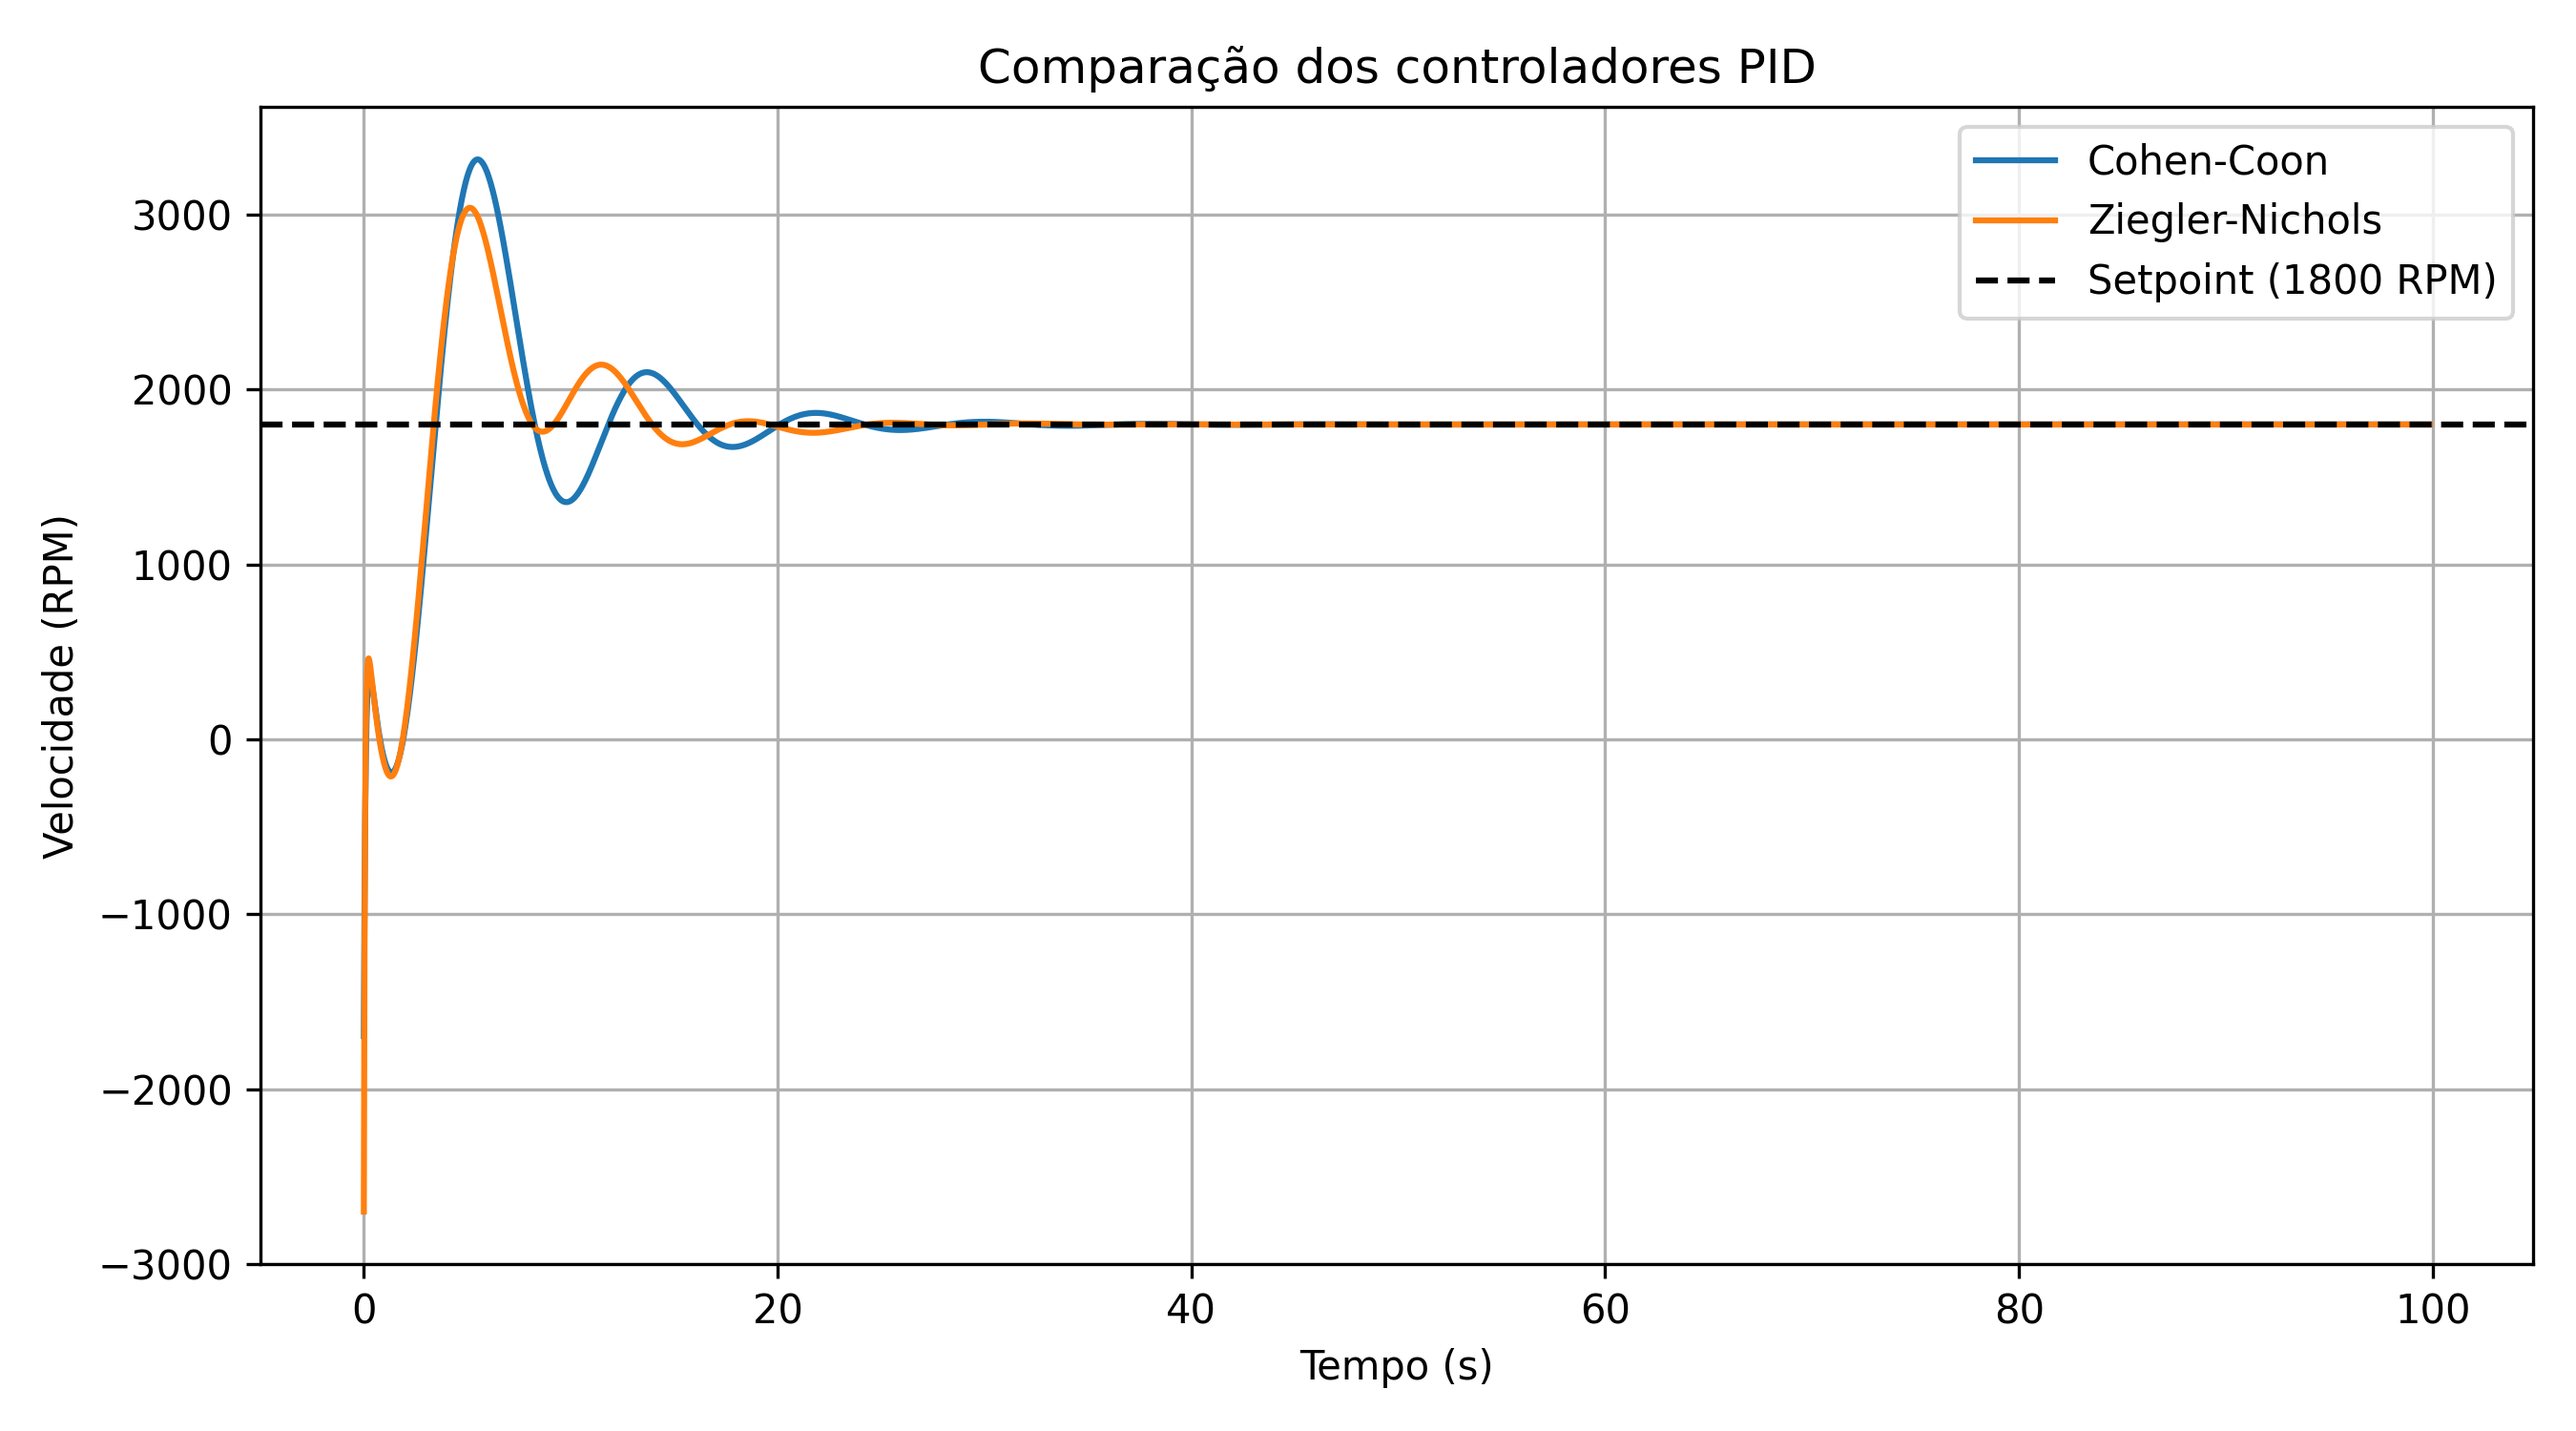
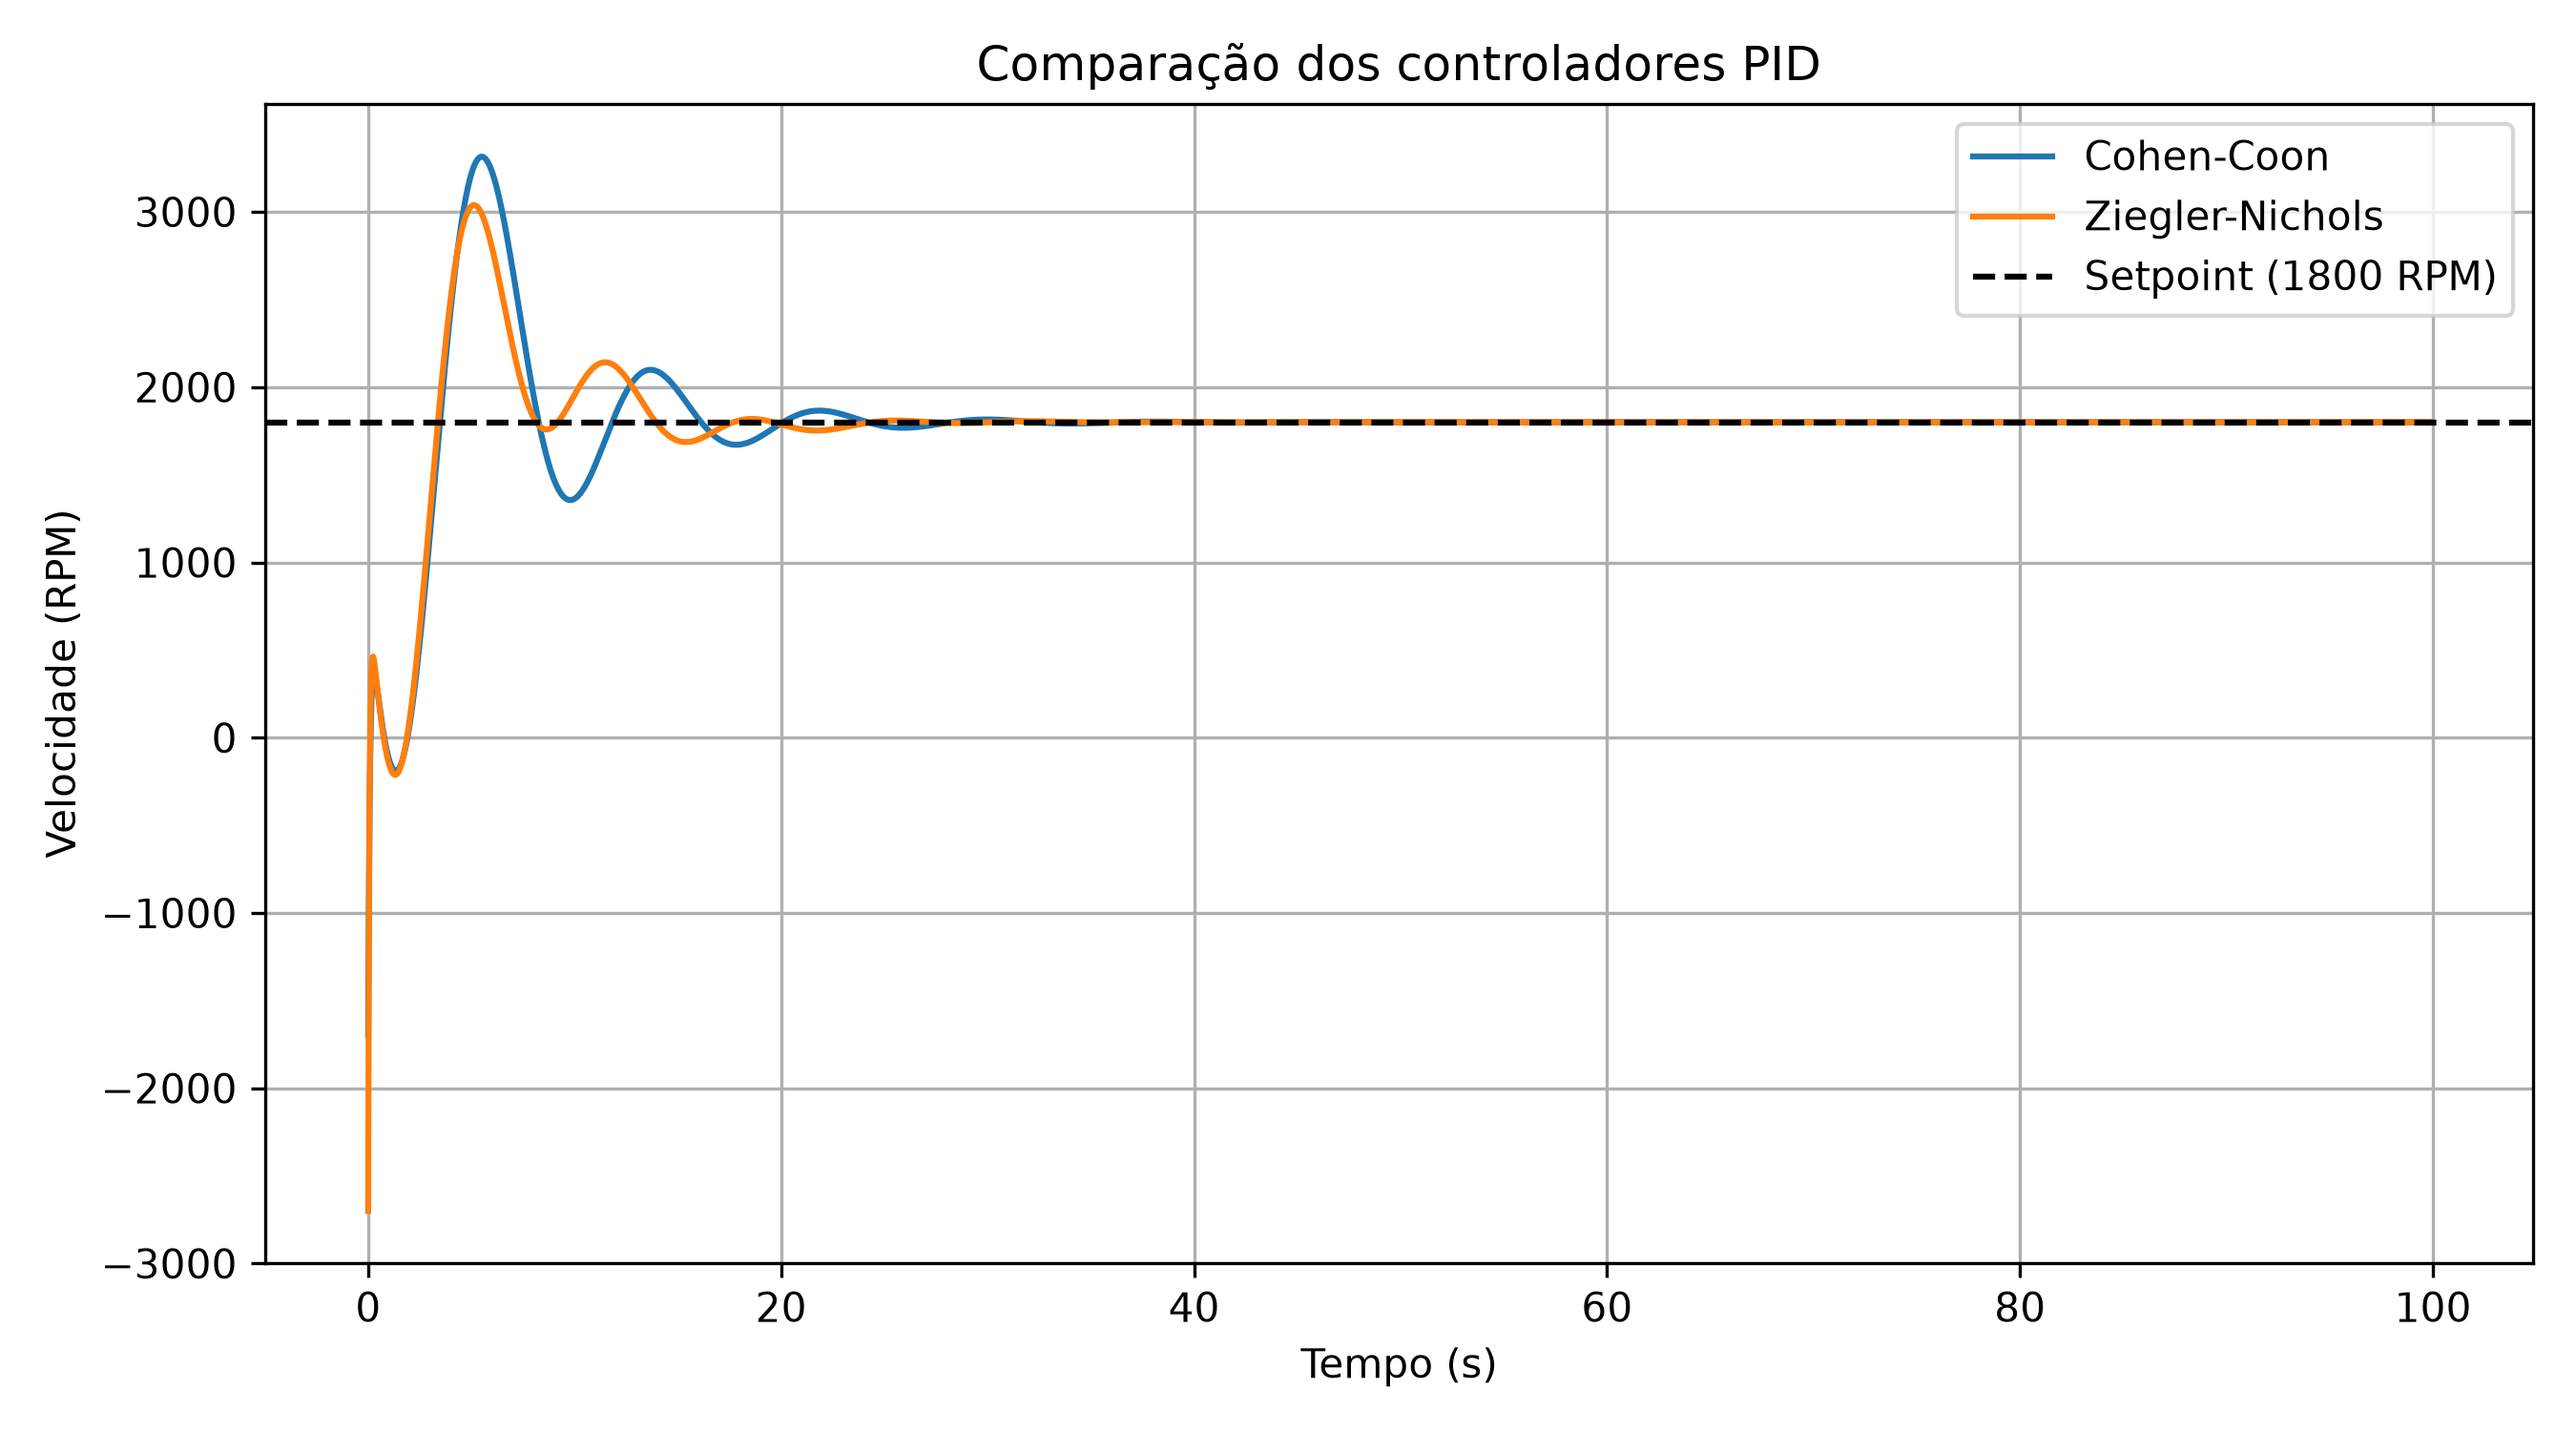
feat: aponta o método com menor tempo de resposta (item 6)
- comparar_sintonias.py informa o método com menor tempo de acomodação
- docs/comparacao_sintonias.txt traz a Tabela 8, as métricas e a justificativa do item 6

diff --git a/identificação/comparar_sintonias.py b/identificação/comparar_sintonias.py
@@ -1,4 +1,3 @@
-
 import sys
 from pathlib import Path
 
@@ -73,6 +72,13 @@ def main():
 
         imprimir_metricas(nome, metricas)
         resultados[nome] = (t, y, metricas)
+
+    # Item 6: critério do Grupo 2, menor tempo de resposta (acomodação em 2%)
+    estaveis = {nome: r[2] for nome, r in resultados.items() if r[2]["estavel"]}
+    if estaveis:
+        mais_rapido = min(estaveis, key=lambda nome: estaveis[nome]["tempo_acomodacao"])
+        print(f"\nMenor tempo de resposta (ts): {mais_rapido} "
+              f"({estaveis[mais_rapido]['tempo_acomodacao']:.2f} s)")
 
     PASTA_FIGURAS.mkdir(exist_ok=True)
 
